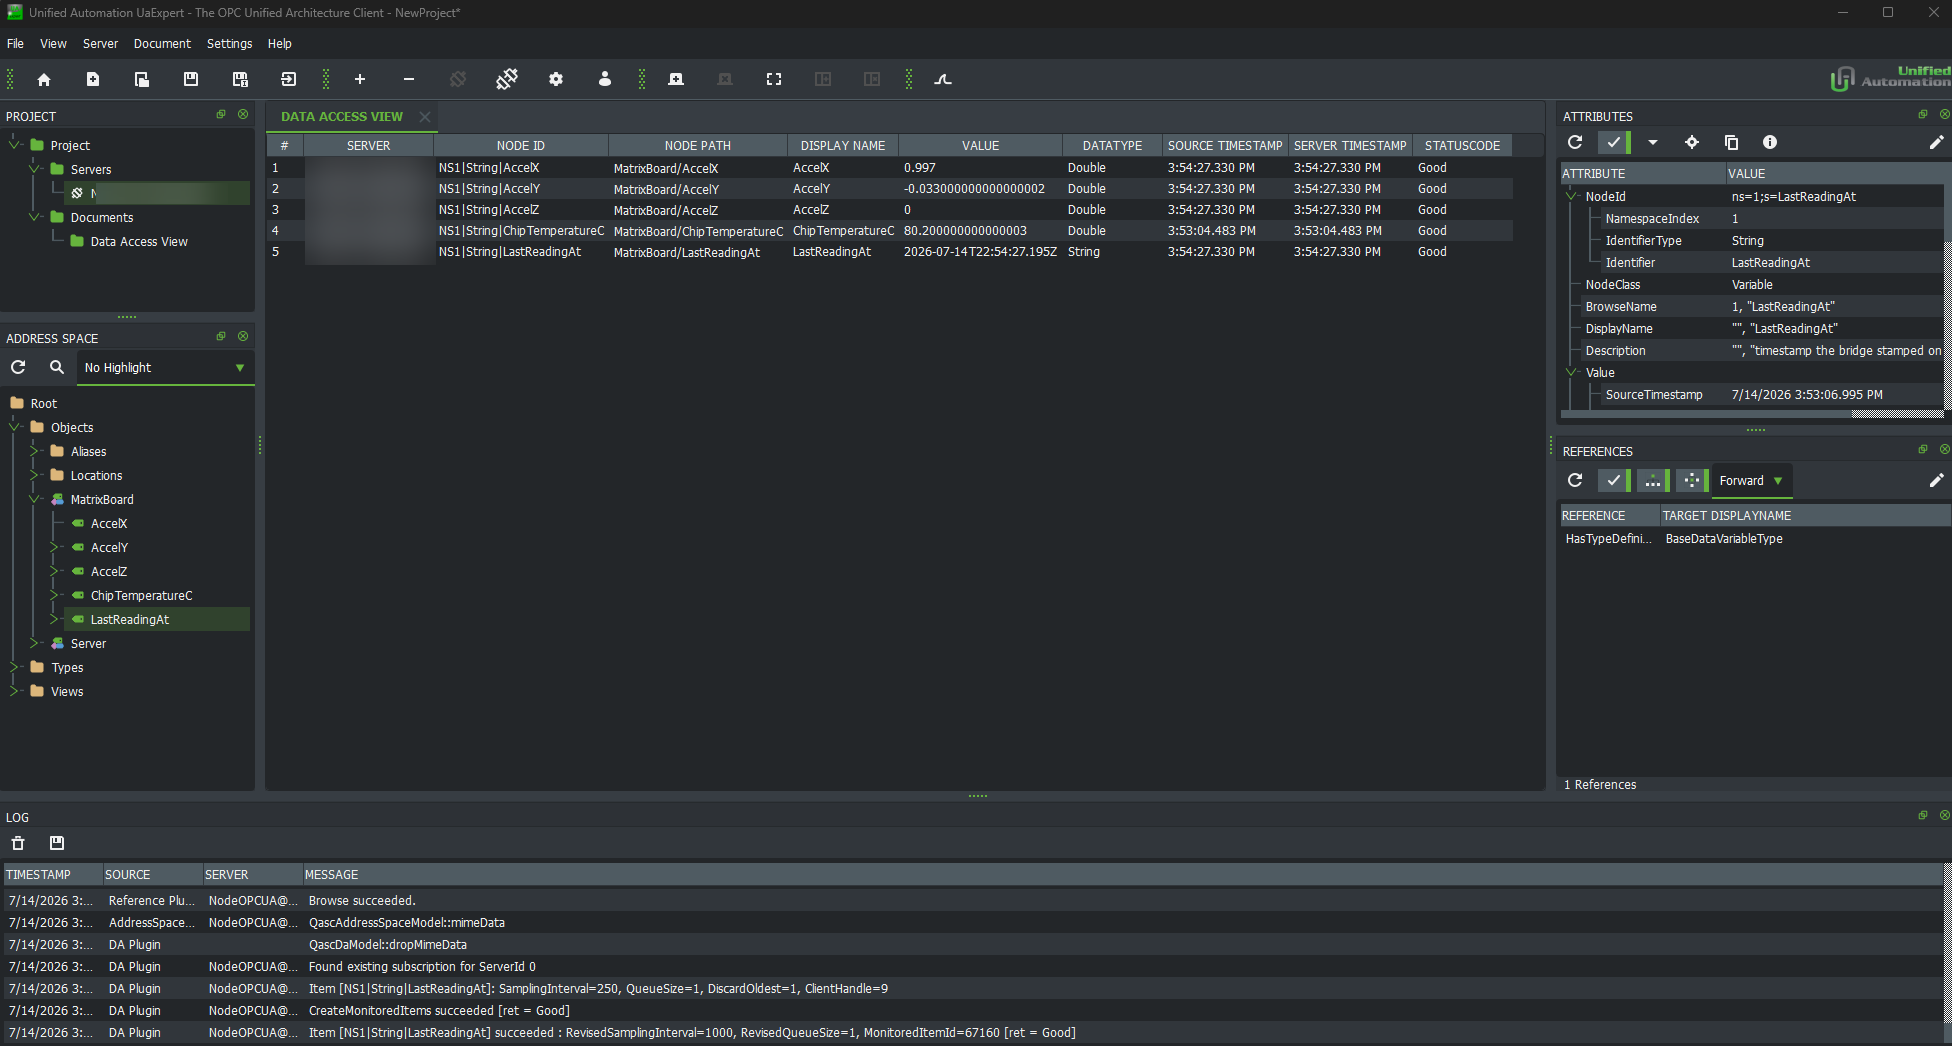
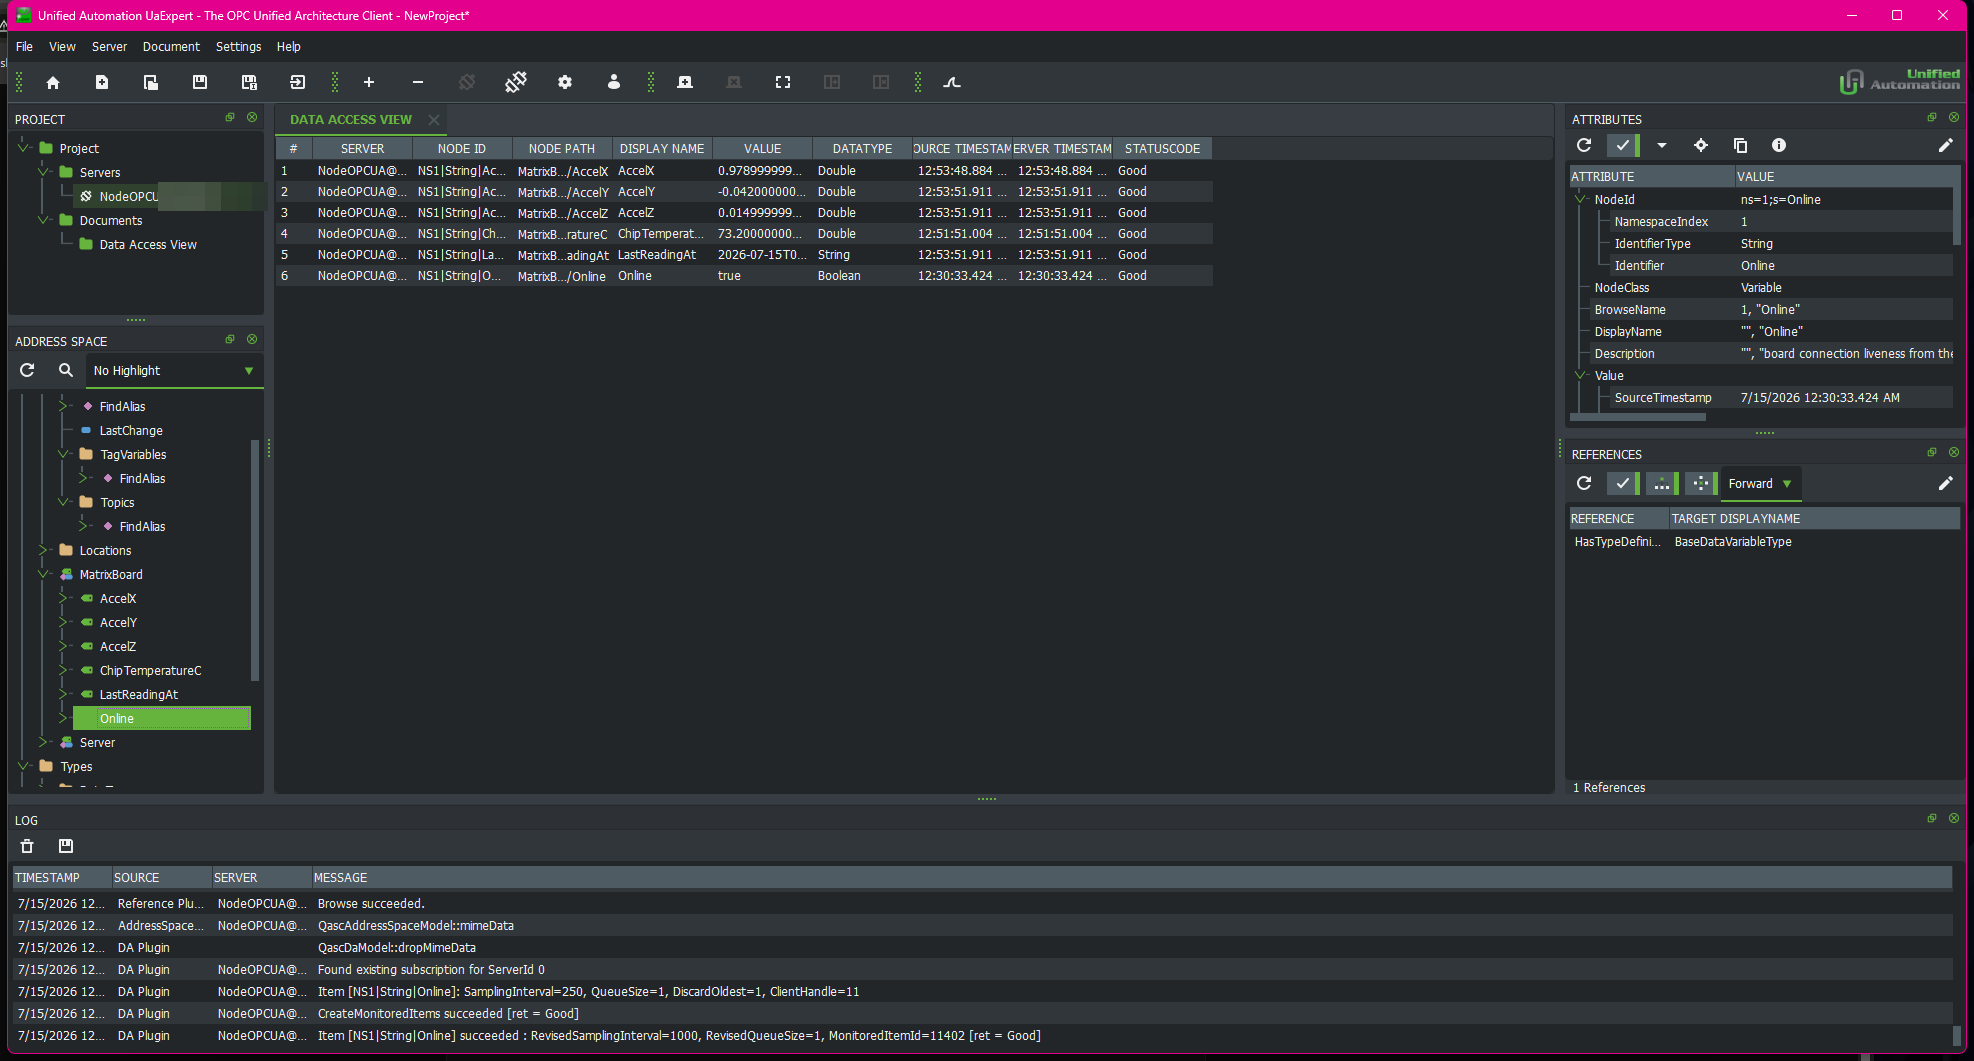
Retake UaExpert screenshot with all six nodes including Online: true
The old shot predated the Online liveness node. The new browse shows all
six MatrixBoard values reading Good with the board holding the broker
connection (Online: true off the retained birth message). Hostname
pixelated before publishing, same as the original. Captions in the site
and README updated to match.

Changed region(s): [[0.0, 0.0, 1.0, 1.0], [0.25, 0.0612, 0.3125, 0.0918]]

diff --git a/site/index.html b/site/index.html
@@ -255,9 +255,9 @@
   <p class="sub">The payoff is watching the board's own readings appear in UaExpert, the industry's free reference OPC UA client, with zero custom client code.</p>
 
   <div class="shot">
-    <img src="./uaexpert-live-values.png" alt="UaExpert browsing the MatrixBoard node tree: ChipTemperatureC, AccelX, AccelY, AccelZ, and LastReadingAt, all reading Good status with live values. The server hostname is redacted." loading="lazy" />
+    <img src="./uaexpert-live-values.png" alt="UaExpert browsing the MatrixBoard node tree: ChipTemperatureC, AccelX, AccelY, AccelZ, LastReadingAt, and Online, all six reading Good status with live values, Online reading true. The server hostname is redacted." loading="lazy" />
   </div>
-  <p class="figcap" style="text-align:left">UaExpert connected to <code class="inl" style="font-size:.78em">opc.tcp://localhost:4840</code>, browsing <b>Objects &gt; MatrixBoard</b>. The five nodes read <b>Good</b>, and the accelerometer values update as the physical board is moved. (The server's machine hostname is blurred.) The tree has since grown a sixth node, <b>Online</b>: the board's liveness flag, explained in section 04.</p>
+  <p class="figcap" style="text-align:left">UaExpert connected to <code class="inl" style="font-size:.78em">opc.tcp://localhost:4840</code>, browsing <b>Objects &gt; MatrixBoard</b>. All six nodes read <b>Good</b>, including <b>Online: true</b>, the liveness flag from section 04, straight off the board's retained birth message. The accelerometer values update as the physical board is moved. (The server's machine hostname is blurred.)</p>
 
   <div class="tgrid">
     <div class="tcard b"><div class="th">Browsable by design</div><div class="td">A client that knew nothing about this server discovered every value by browsing. That discovery-without-documentation property is the whole argument for OPC UA over a pile of custom REST APIs.</div></div>

diff --git a/README.md b/README.md
@@ -72,9 +72,9 @@ The server at `opc.tcp://localhost:4840` exposes the board under
 `Online` reads `true`; pull the board's power and, roughly 45 seconds later (the
 keepalive window), the broker publishes the board's last will and `Online` flips to
 `false` while the sensor nodes freeze at their last-known values. Verified live, both
-directions. The screenshot below is the 2026-07-14 browse of the first five nodes;
-`Online` was added to the server afterward and appears on the next rebrowse. Browsed
-live with UaExpert, values updating as the physical board is moved:
+directions. The screenshot below is the 2026-07-15 browse: all six nodes reading `Good`,
+`Online` reading `true` while the board holds the broker connection, values updating as
+the physical board is moved:
 
 ![UaExpert browsing live MatrixBoard values](docs/uaexpert-live-values.png)
 